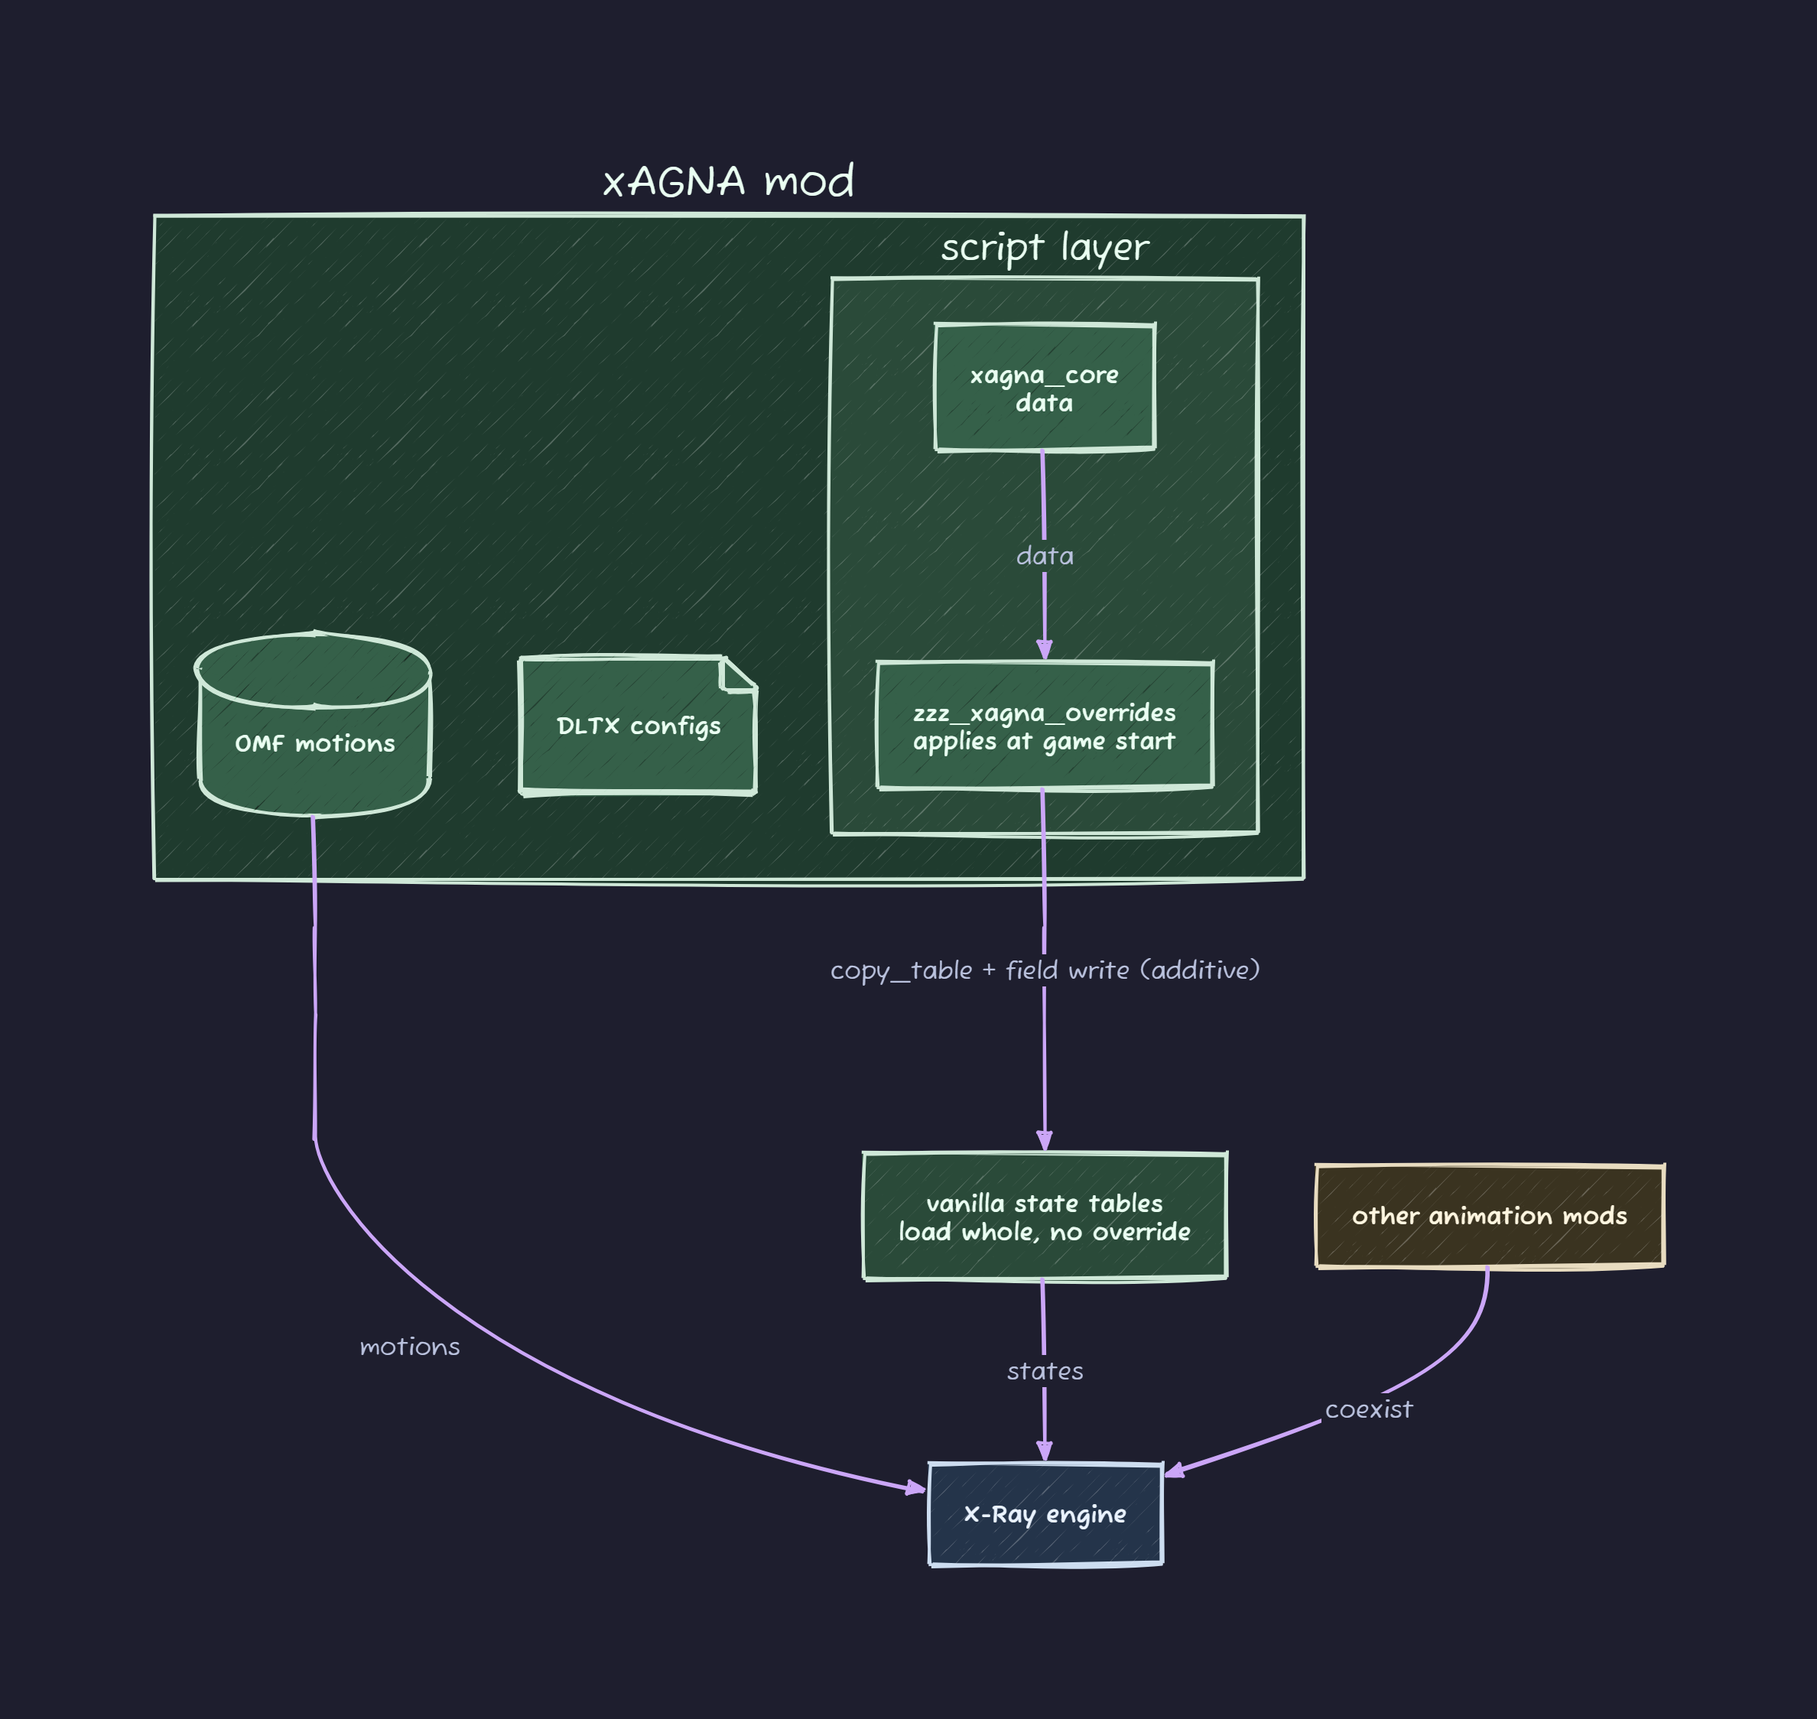
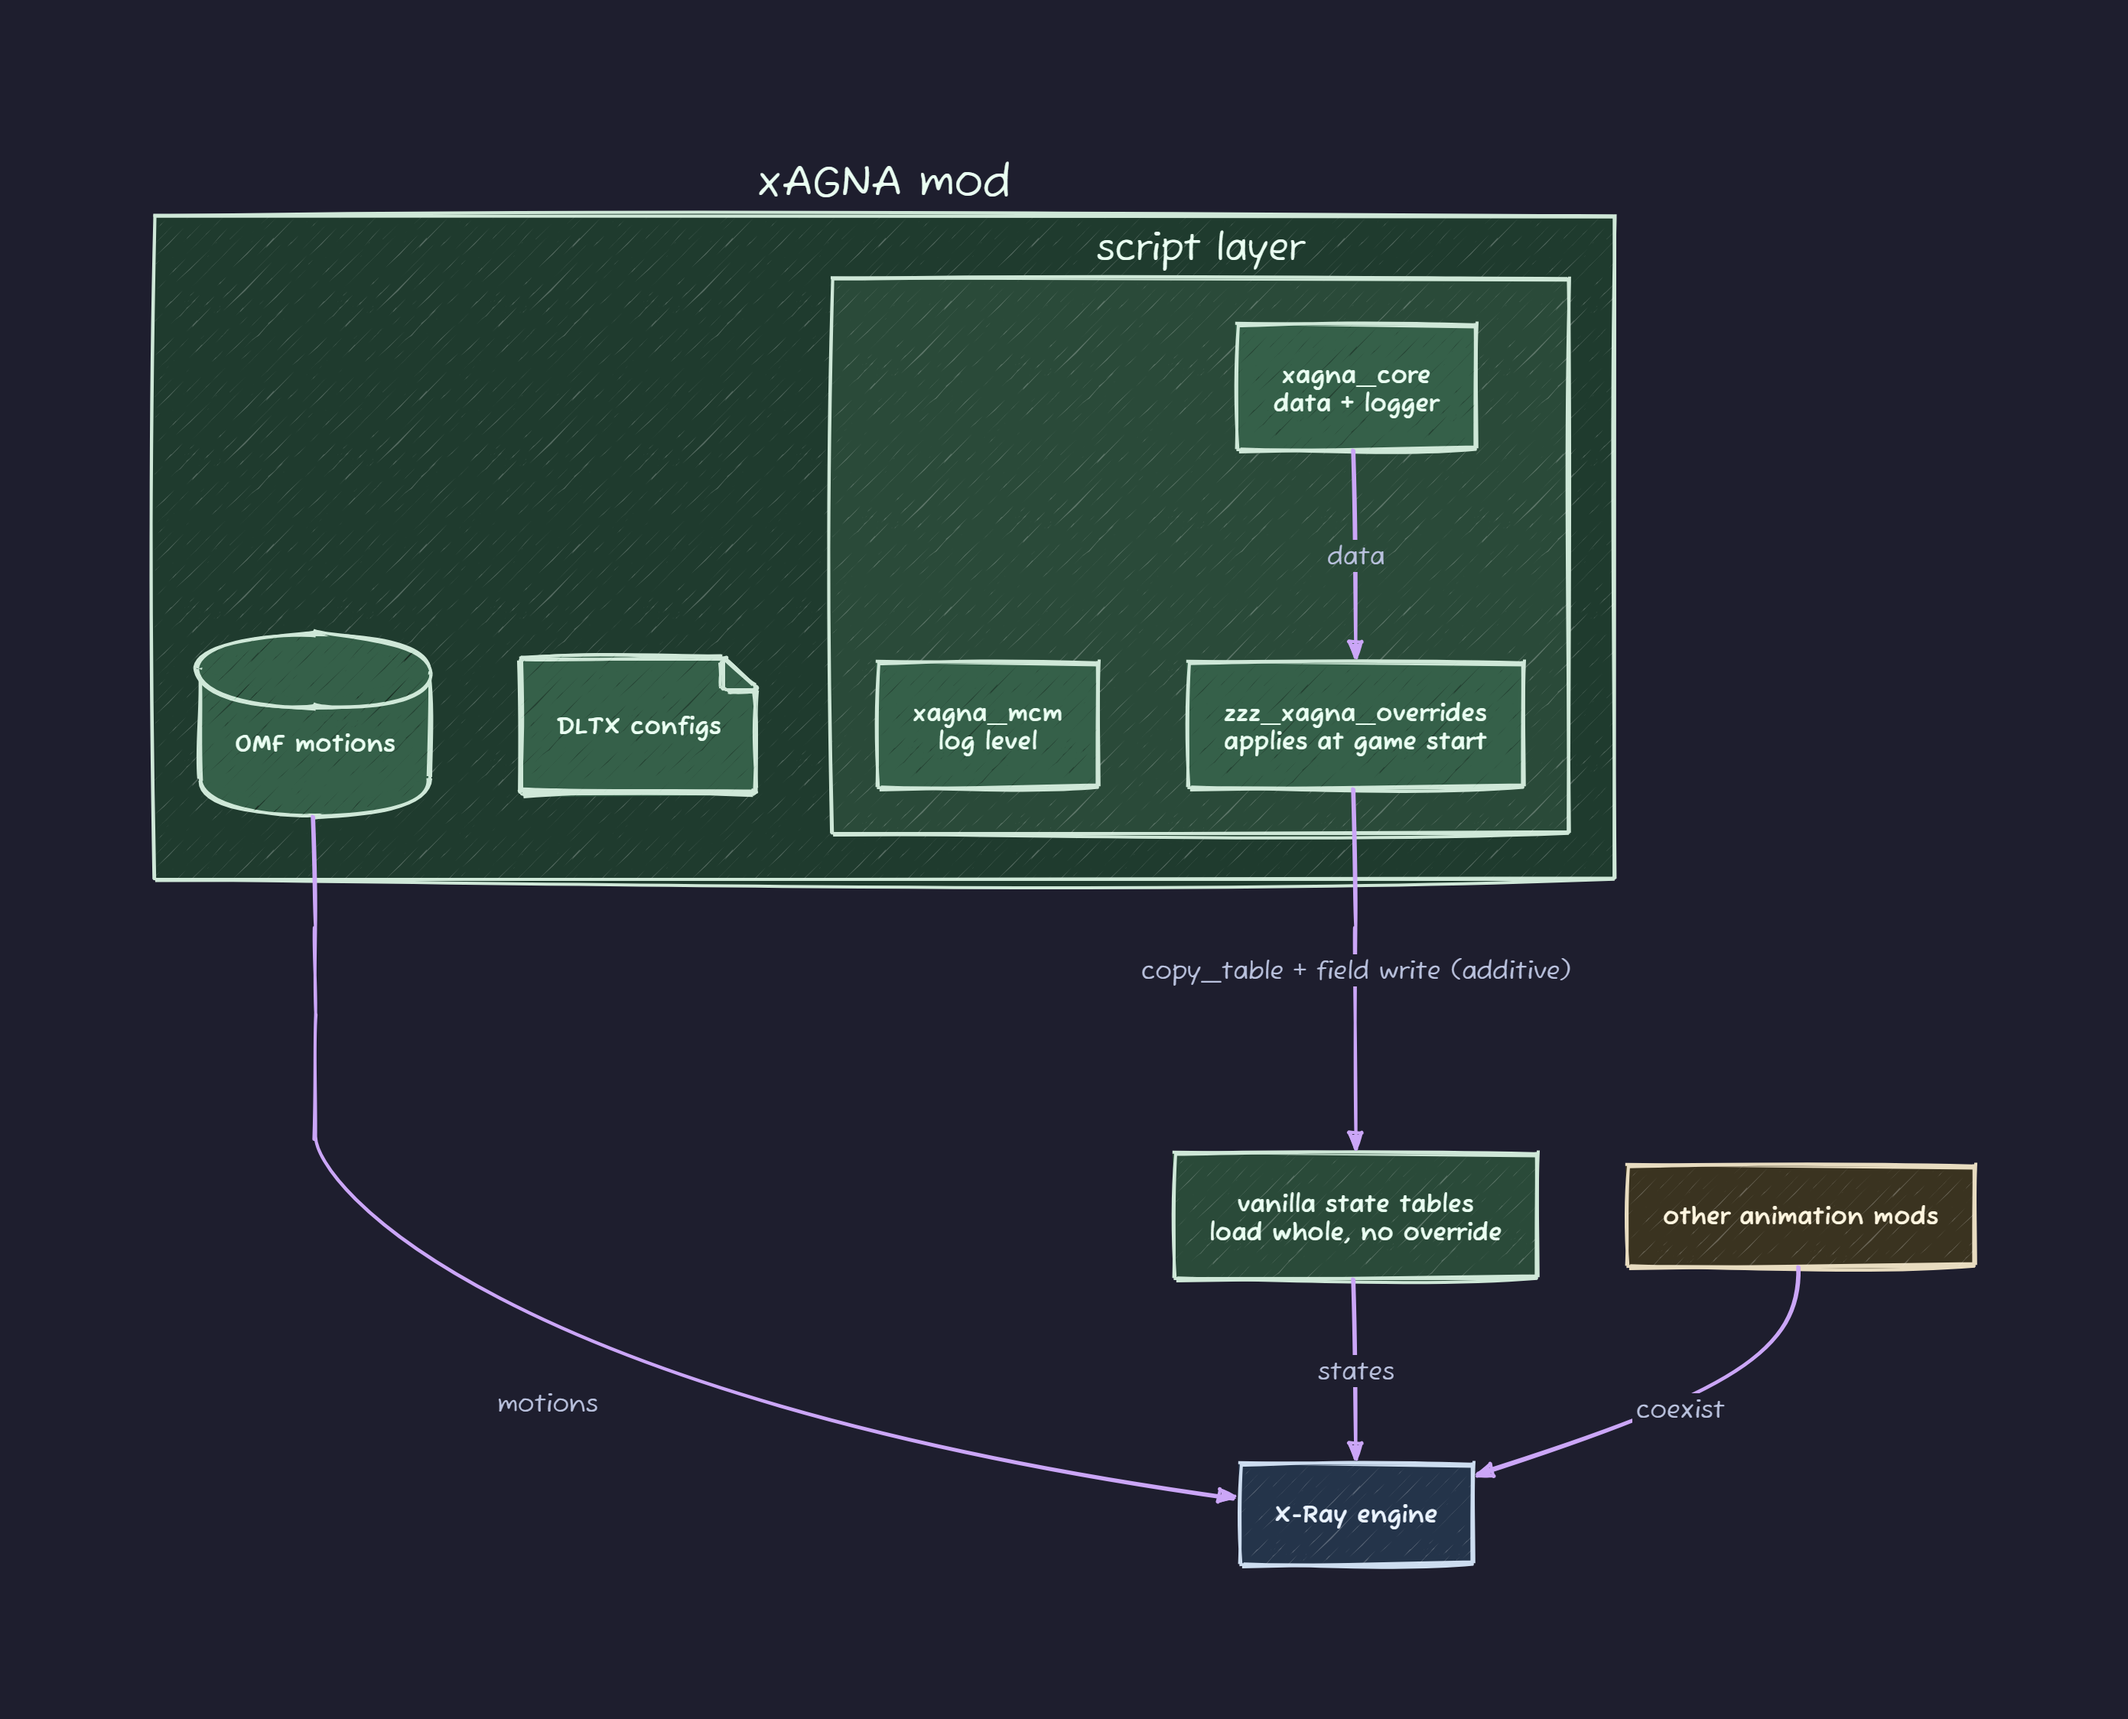
docs(xagna): document the MCM log-level control and the logger
Updates architecture.md (the third script and the leveled logger), the README
script list, the changelog (a Diagnostics note), and the diagram to match the
shipped three-file layout.

diff --git a/doc/architecture.md b/doc/architecture.md
@@ -6,8 +6,9 @@ The script layer for the xAGNA NPC animation overhaul. It adds the mod's motions
 
 ## Files
 
-`xagna_core.script` holds the kept animation entries, the PDA into-overlays, and the standing-posture deltas.
-`zzz_xagna_overrides.script` applies them at `on_game_start` and runs last so its edits win.
+`xagna_core.script` holds the kept animation entries, the PDA into-overlays, the standing-posture deltas, and the leveled logger.
+`xagna_mcm.script` registers the MCM Log level control and sets the logger threshold from it.
+`zzz_xagna_overrides.script` applies the edits at `on_game_start` and runs last so its edits win.
 
 ## How it works
 
@@ -15,3 +16,4 @@ The layer ships none of the three table overrides, so vanilla `state_lib`, `stat
 `copy_table` merges the kept entries into the animation table and a field write sets the standing postures.
 No override means it coexists with other NPC animation mods and survives a base-game update.
 The PDA and medical clips use xAGNA-only motions the mod's own OMF carries.
+The logger writes to the xray log under the `[xagna]` prefix at the level the MCM Log level picks, WARN by default.

diff --git a/README.md b/README.md
@@ -4,7 +4,7 @@ The full xAGNA NPC animation overhaul (Anomaly / GAMMA), with the reworked scrip
 
 The scripts are additive and never replace a vanilla file.
 
-- `gamedata/scripts/`: `xagna_core`, `zzz_xagna_overrides`
+- `gamedata/scripts/`: `xagna_core`, `xagna_mcm`, `zzz_xagna_overrides`
 - `gamedata/meshes/`: the OMF animations
 - `gamedata/configs/`: the DLTX
 - `gamedata/textures/`: the textures
